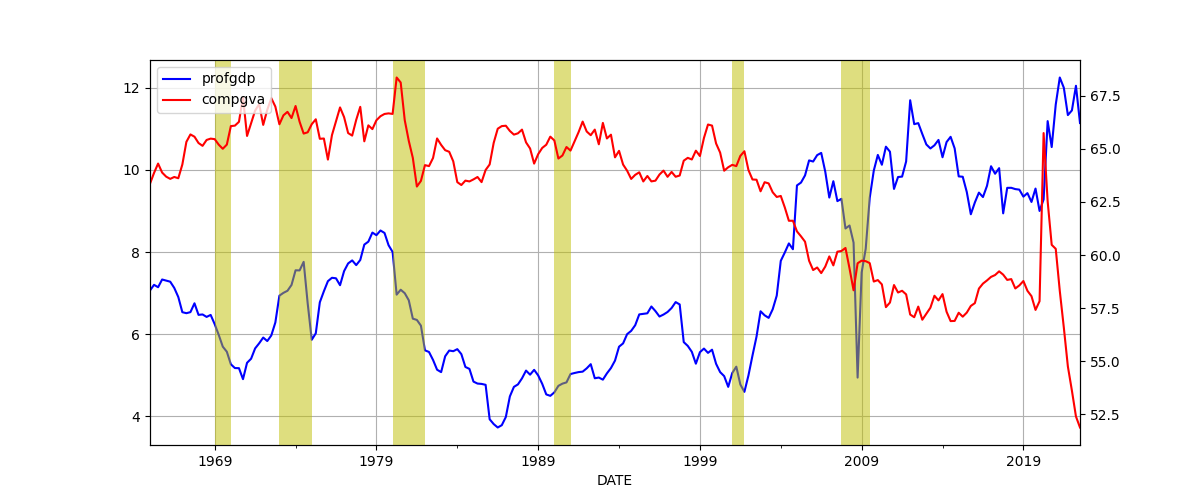
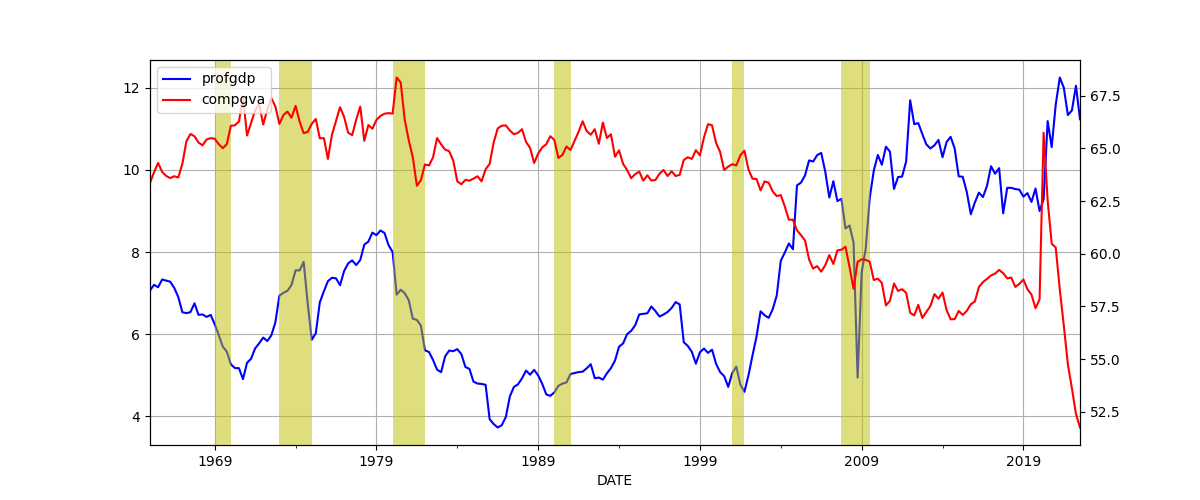
--

diff --git a/en/README.md b/en/README.md
@@ -1,114 +1,145 @@
 
-H2 Fuel News: "In New Orleans, the technicians at NASA’s Michoud
-Assembly Facility have taken the next step forward in the production
-of the liquid hydrogen tank for the Artemis III mission"
+---
+
+2.48 billion in debt payments son.. The shareholder was already
+strapped for earnings, that payment killed them. That would piss a man
+off
+
+```python
+u.yf_cash("DIS")['totalCashFromFinancingActivities'] / 1e9
+```
+
+```text
+Out[1]: 
+2022-01-01   -0.292
+2022-04-02   -1.817
+2022-07-02   -0.150
+2022-10-01   -2.482
+```
 
 ---
 
-H2 Central: "Report: UK Risks Losing Hydrogen Innovation Race, with EU
-And Japan Pulling Ahead"
+A lot of debt, due to Fox deal likely.
+
+```python
+u.yf_balance("DIS")['longTermDebt'] / 1e9
+```
+
+```text
+Out[1]: 
+2022-01-01    47.349
+2022-04-02    46.624
+2022-07-02    46.022
+2022-10-01    45.299
+Name: longTermDebt, dtype: float64
+```
 
 ---
 
-Cory Doctorow: "As I type these words, a mass exodus is underway from
-Twitter and Facebook... [T]he long-delayed MySpacing of Facebook and
-Beboizing of Twitter began"
+He is right DIS earnings went to shit. 0.09? This is a joke.
+
+
+```python
+u.yf_eps("DIS")
+```
+
+```text
+Out[1]: 
+2022-01-01    0.605399
+2022-04-02    0.257733
+2022-07-02    0.772652
+2022-10-01    0.088836
+```
 
 ---
 
-*The Eagle*, there was enough criticism of imperialism, of Rome that
-one can mentally skip over opression of distant locals (Brits!), and
-the Roman "heroes". The movie can be seen as being about brothers in
-arms, ppl fighting together, for something, even if that something was
-Rome, an expansionist band of feudal cobsuckers.
-
-Well written, directed, acted - five stars without a doubt.
+CNBC: "Disney is facing a proxy fight as Nelson Peltz’s activist firm
+Trian Fund Management pushes for a seat on its board... Peltz [made]
+his case for the fight his firm has picked with Disney. He raised
+issues with Disney’s $71 billion acquisition of Fox in 2019 and how
+the company’s shareholder value has eroded in recent years"
 
 ---
 
-Hand crafted code could have its own issues, but NN based approaches
-are especially fragile, they are too dependent on data - data that is
-curated for a specific purpose.
+Russia was being shelled in Kherson City, they pulled out, UKR moved
+in, now they are being shelled by Russian forces \\(ツ)/ eyyy (medi
+shrug). The river line proved to be defensible. UA counteroffensive
+there stalled.
 
 ---
 
-Yes BD control code is hand-crafted. Preferable than neural net based
-"AI", at least they are trying to formulate an approach from ground
-up, thinking about the problem, not blindly showing in data into a
-black box.
+BKM is major strat point; Ukraine sacrificed much to hold on to it..
+One could even argue the counteroffensive last year was done partly to
+shift the focus elsewhere when the battles there was not going well.
 
-Quora: "How does Boston Dynamics use AI/machine learning? For the most
-part, it doesn't. Boston Dynamic's secret sauce is a “stack” of very
-carefully hand-designed classic control laws... It's good because
-classic control theory provides strong mathematical guarantees of
-stability and performance, and this does not require *any*
-'training'. It just works, right out of the box, assuming you get the
-control design right.. Nobody has yet figured out how to apply machine
-learning to robotic motor control in a practical way. Machine learning
-takes far too much data, typically hundreds of thousands to millions
-of trials. You can't collect that much data on a real robot. And
-simulation isn't good enough, yet, for simulated data to transfer
-without change onto real robotic hardware"
+But things are now back to where they were; RU shored up the South,
+and now moving ahead with plans taking the rest of Donetsk.
 
 ---
 
-Bad smells coming out of Sweden; the "Nobel" Econ Prize is funded by
-their Riksbank BTW, and the last one went to people who ardently
-argued for "saving the banks".
+Latest frontline in Ukraine. Gains in Soledar, RU will surely attempt
+to encircle Bakhmut. Some gains in Zaporizhia too? The start of
+something from there perhaps, planning to push north?
+
+```python
+geo = [['Soledar',48.68207521521989, 38.08963574290512,(5,20)],
+       ['Bakhmut',48.59681687669557, 37.99571812076628,(-20,0)]]
+u.sm_plot_ukr('ukrdata/fl-0116.csv','ukrdata/fl-221115.csv',geo)
+```
+
+<img width="340" src="mbl/2023/ukr-1.jpg"/>
 
 ---
 
-Globalist conspiracy or just rotten ideology ran amok?
-
-Werner, *Princes of the Yen*, 2014: "[C]entral bank independence alone
-does not guarantee economic success of monetary policy. The Swedish
-Riksbank, for instance, independently created a credit boom in the
-1980s and a credit crunch in the 1990s. The U.S. central bank
-leadership was not influenced by political pressure when it increased
-credit creation steadily throughout the 1990s, thus creating a vast
-asset bubble. The central banks of Thailand and Korea independently
-encouraged their banks to lend excessively to the real estate sector
-and independently set policies that encouraged their entire corporate
-sectors to borrow from abroad, thus placing a precarious time bomb at
-the heart of their economies"
+To my knowledge CH did not give mRNA vax to citizens. Now we will see
+how truly deadly covid can be..
 
 ---
 
-H2 Central: "India Sets Targets for Green Hydrogen Use by Some Industries"
+Al Jazeera: "China reports almost 60,000 COVID-related deaths in past
+month"
 
 ---
 
-Why Not Mars
-
-[[-]](https://idlewords.com/2023/1/why_not_mars.htm)
-
----
-
-The head of the oil company, Al Jaber, supports blue H2
-	
-"The United Arab Emirates has picked the head of its national oil
-company as president of this year's COP28 climate talks"
+H2 Central: "Larsen & Toubro, an Indian multi-national engaged in EPC
+Projects, Hi-Tech Manufacturing, and Services, announced the signing
+of a Memorandum of Understanding (MoU) with the Norway-based H2Carrier
+(H2C) to co-operate towards developing floating green ammonia projects
+for industrial-scale applications"
 
 ---
 
-Al Monitor: "Brazil’s Lula fires Israel ambassador as part of
-pro-Palestine shift..Former President.. Bolsonaro was a strong
-supporter of Israel and friend of Prime Minister Benjamin Netanyahu"
+H2 Central: "Masdar Signs Agreement to Explore Exporting Green
+Hydrogen from Abu Dhabi to Europe"
 
 ---
 
-TASS: "Taking Soledar under control makes it possible to advance
-toward Slavyansk and Kramatorsk and paves the way for [taking all of]
-Donetsk"
+H2 Fuel News: "Porsche hydrogen engine prototype outperforms 8-cylinder gasoline engine"
 
 ---
 
-TASS: "Ukraine lost about 25000 people in struggle for Soledar"
+TASS: "Kazakh companies purchase Russian sovereign bonds worth $1.4
+bln — Bloomberg"
 
 ---
 
-TASS: "Russian troops complete liberation of Soledar, top brass
-reports"
+"@ElleGray@mstdn.social
+
+me: *screaming into the abyss"
+
+the abyss: this could have been an email"
+
+---
+
+Automative World: "Cummins: hydrogen ICE to take off from 2024..The
+engine specialist shares its outlook for hydrogen-powered internal
+combustion engines in heavy trucking... it falls to Jim Nebergall as
+General Manager of the Hydrogen Engine Business to steer its global
+efforts in commercialising hydrogen-fuelled ICE specifically. 'There
+is interest here because the technology is low cost in nature and
+represents a zero-carbon option,' he says. 'On the whole, it offers a
+significant boost for the decarbonisation of commercial vehicles with
+a technology that customers understand.'"
 
 ---
 

diff --git a/en/mbl/2023/week03.md b/en/mbl/2023/week03.md
@@ -1,2 +1,115 @@
 # Week 3
 
+
+H2 Fuel News: "In New Orleans, the technicians at NASA’s Michoud
+Assembly Facility have taken the next step forward in the production
+of the liquid hydrogen tank for the Artemis III mission"
+
+---
+
+H2 Central: "Report: UK Risks Losing Hydrogen Innovation Race, with EU
+And Japan Pulling Ahead"
+
+---
+
+Cory Doctorow: "As I type these words, a mass exodus is underway from
+Twitter and Facebook... [T]he long-delayed MySpacing of Facebook and
+Beboizing of Twitter began"
+
+---
+
+*The Eagle*, there was enough criticism of imperialism, of Rome that
+one can mentally skip over opression of distant locals (Brits!), and
+the Roman "heroes". The movie can be seen as being about brothers in
+arms, ppl fighting together, for something, even if that something was
+Rome, an expansionist band of feudal cobsuckers.
+
+Well written, directed, acted - five stars without a doubt.
+
+---
+
+Hand crafted code could have its own issues, but NN based approaches
+are especially fragile, they are too dependent on data - data that is
+curated for a specific purpose.
+
+---
+
+Yes BD control code is hand-crafted. Preferable than neural net based
+"AI", at least they are trying to formulate an approach from ground
+up, thinking about the problem, not blindly showing in data into a
+black box.
+
+Quora: "How does Boston Dynamics use AI/machine learning? For the most
+part, it doesn't. Boston Dynamic's secret sauce is a “stack” of very
+carefully hand-designed classic control laws... It's good because
+classic control theory provides strong mathematical guarantees of
+stability and performance, and this does not require *any*
+'training'. It just works, right out of the box, assuming you get the
+control design right.. Nobody has yet figured out how to apply machine
+learning to robotic motor control in a practical way. Machine learning
+takes far too much data, typically hundreds of thousands to millions
+of trials. You can't collect that much data on a real robot. And
+simulation isn't good enough, yet, for simulated data to transfer
+without change onto real robotic hardware"
+
+---
+
+Bad smells coming out of Sweden; the "Nobel" Econ Prize is funded by
+their Riksbank BTW, and the last one went to people who ardently
+argued for "saving the banks".
+
+---
+
+Globalist conspiracy or just rotten ideology ran amok?
+
+Werner, *Princes of the Yen*, 2014: "[C]entral bank independence alone
+does not guarantee economic success of monetary policy. The Swedish
+Riksbank, for instance, independently created a credit boom in the
+1980s and a credit crunch in the 1990s. The U.S. central bank
+leadership was not influenced by political pressure when it increased
+credit creation steadily throughout the 1990s, thus creating a vast
+asset bubble. The central banks of Thailand and Korea independently
+encouraged their banks to lend excessively to the real estate sector
+and independently set policies that encouraged their entire corporate
+sectors to borrow from abroad, thus placing a precarious time bomb at
+the heart of their economies"
+
+---
+
+H2 Central: "India Sets Targets for Green Hydrogen Use by Some Industries"
+
+---
+
+Why Not Mars
+
+[[-]](https://idlewords.com/2023/1/why_not_mars.htm)
+
+---
+
+The head of the oil company, Al Jaber, supports blue H2
+	
+"The United Arab Emirates has picked the head of its national oil
+company as president of this year's COP28 climate talks"
+
+---
+
+Al Monitor: "Brazil’s Lula fires Israel ambassador as part of
+pro-Palestine shift..Former President.. Bolsonaro was a strong
+supporter of Israel and friend of Prime Minister Benjamin Netanyahu"
+
+---
+
+TASS: "Taking Soledar under control makes it possible to advance
+toward Slavyansk and Kramatorsk and paves the way for [taking all of]
+Donetsk"
+
+---
+
+TASS: "Ukraine lost about 25000 people in struggle for Soledar"
+
+---
+
+TASS: "Russian troops complete liberation of Soledar, top brass
+reports"
+
+---

diff --git a/en/2019/05/stats.md b/en/2019/05/stats.md
@@ -256,7 +256,7 @@ DATE
 2021-10-01  11.338303  54.758803
 2022-01-01  11.452611  53.618272
 2022-04-01  12.052664  52.404410
-2022-07-01  11.144583  51.885150
+2022-07-01  11.237827  51.762586
 ```
 
 ![](compprof.png)
